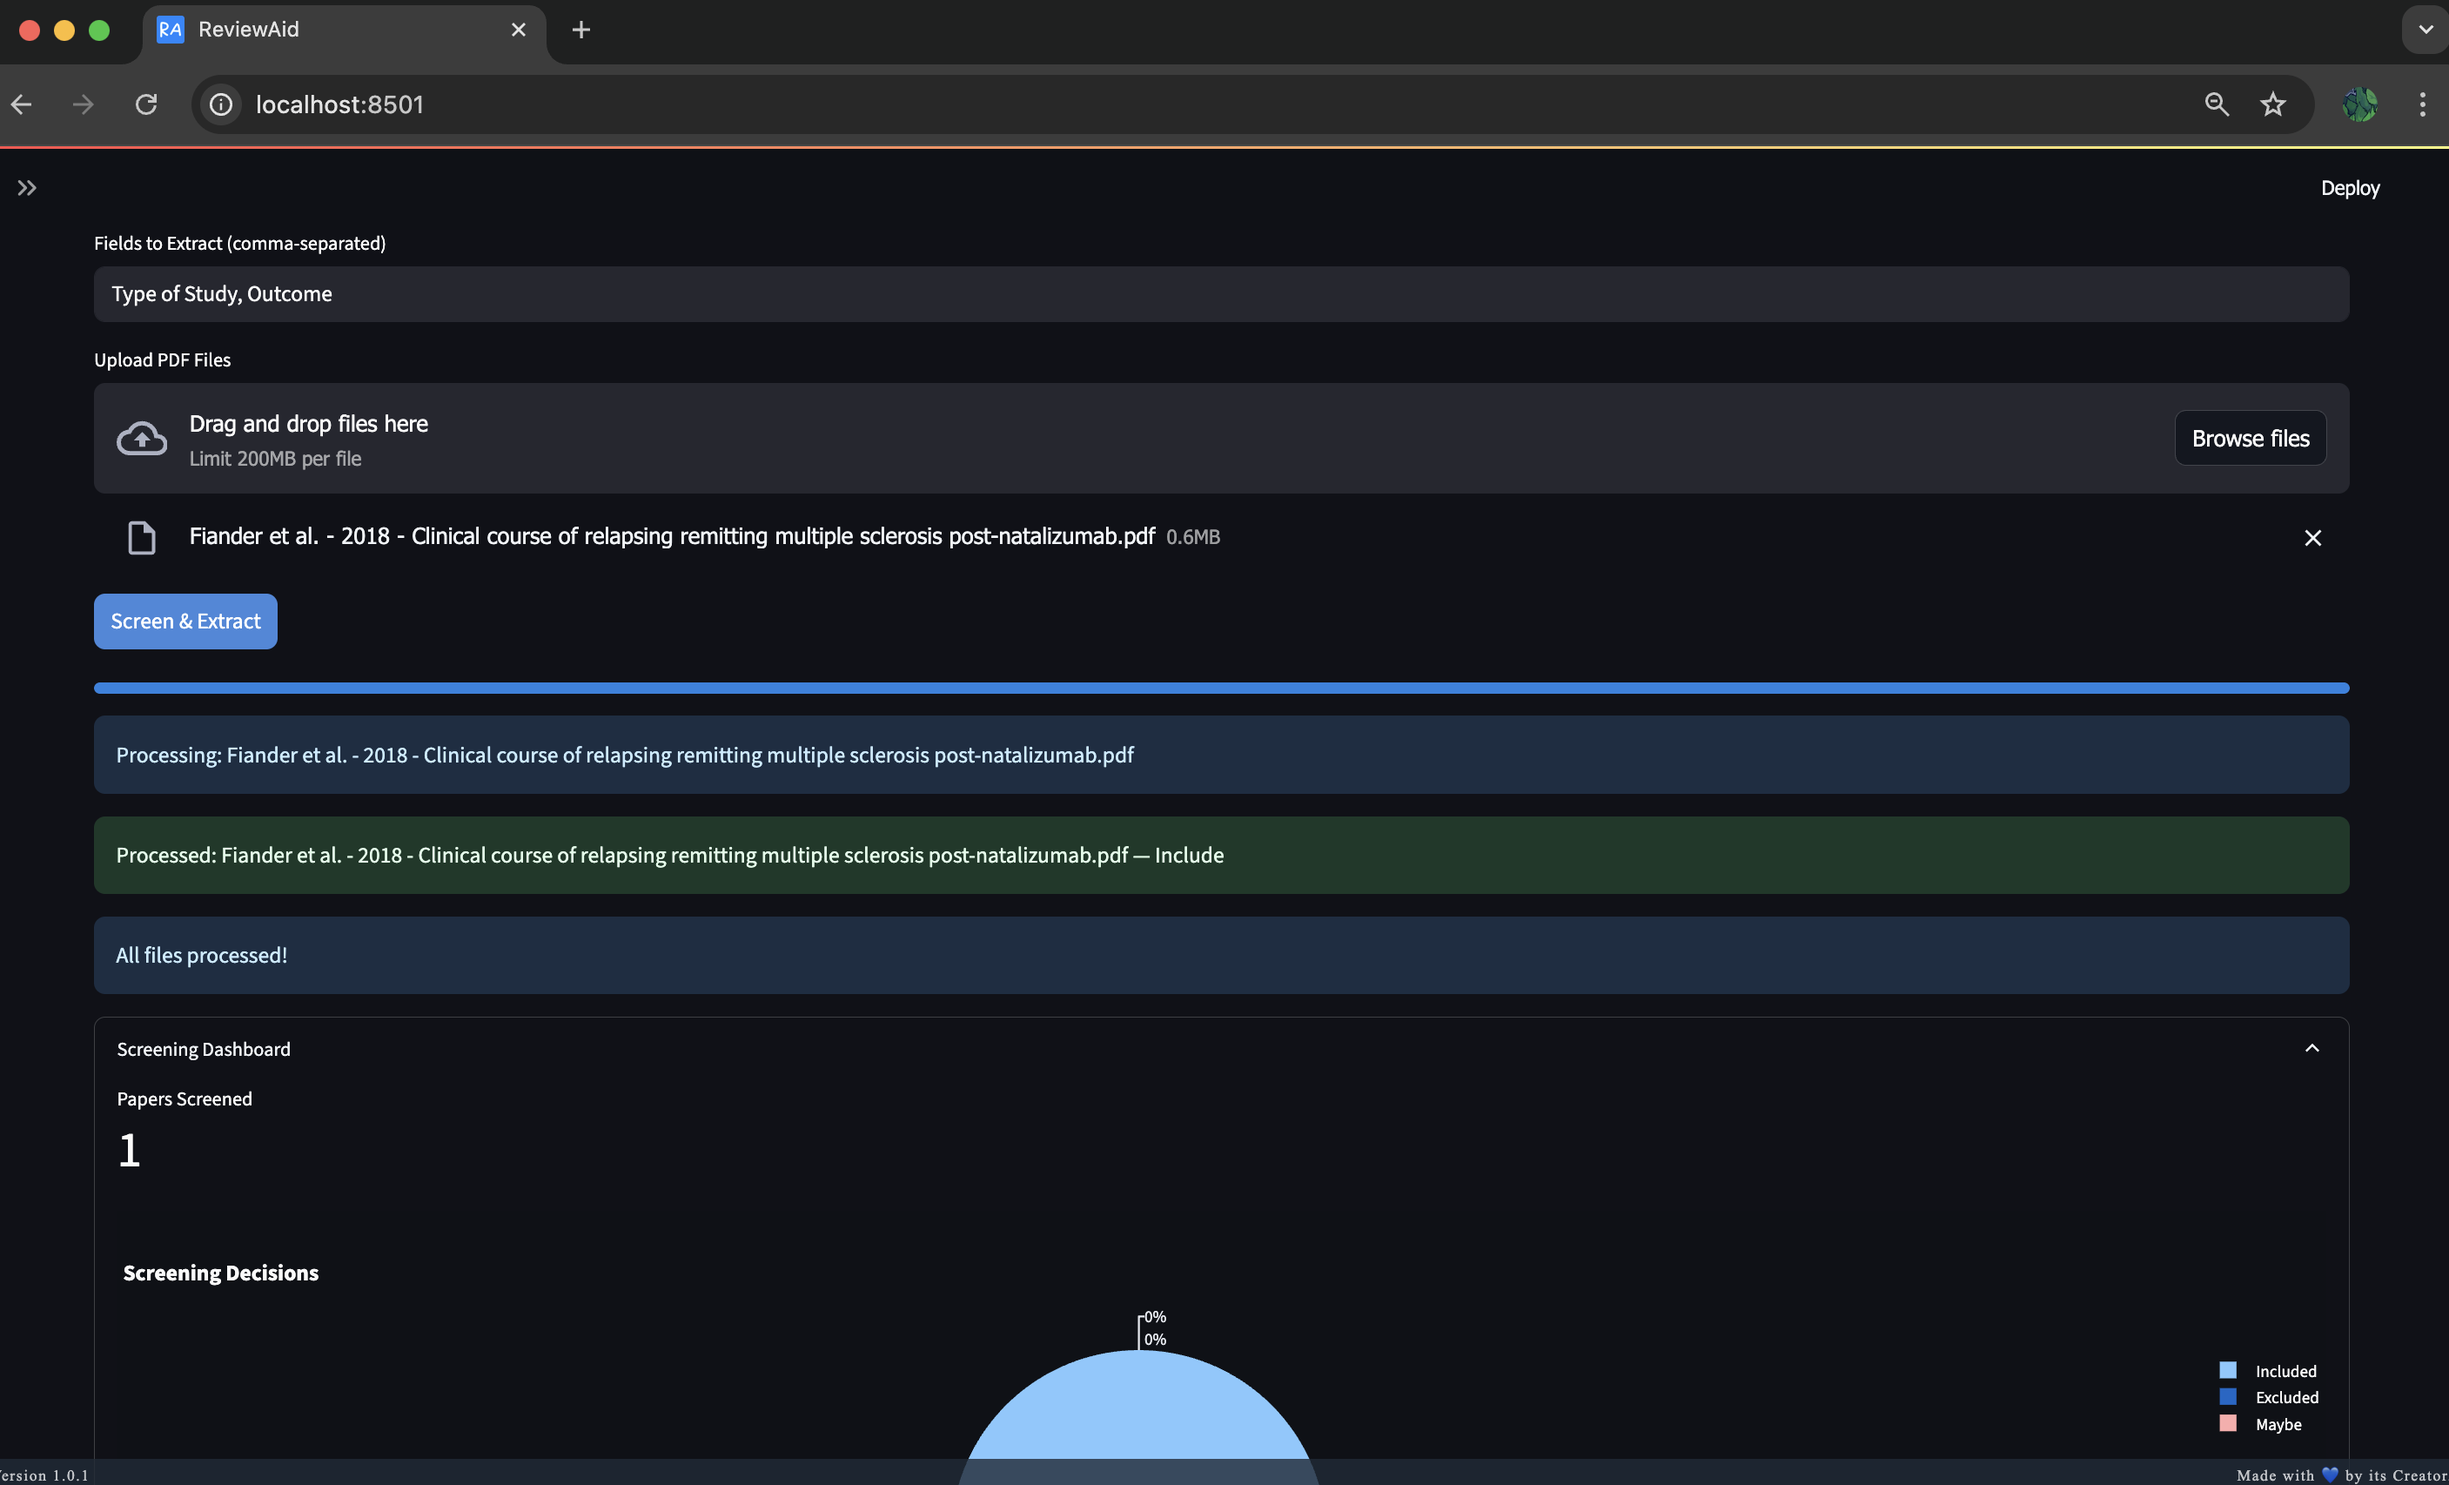
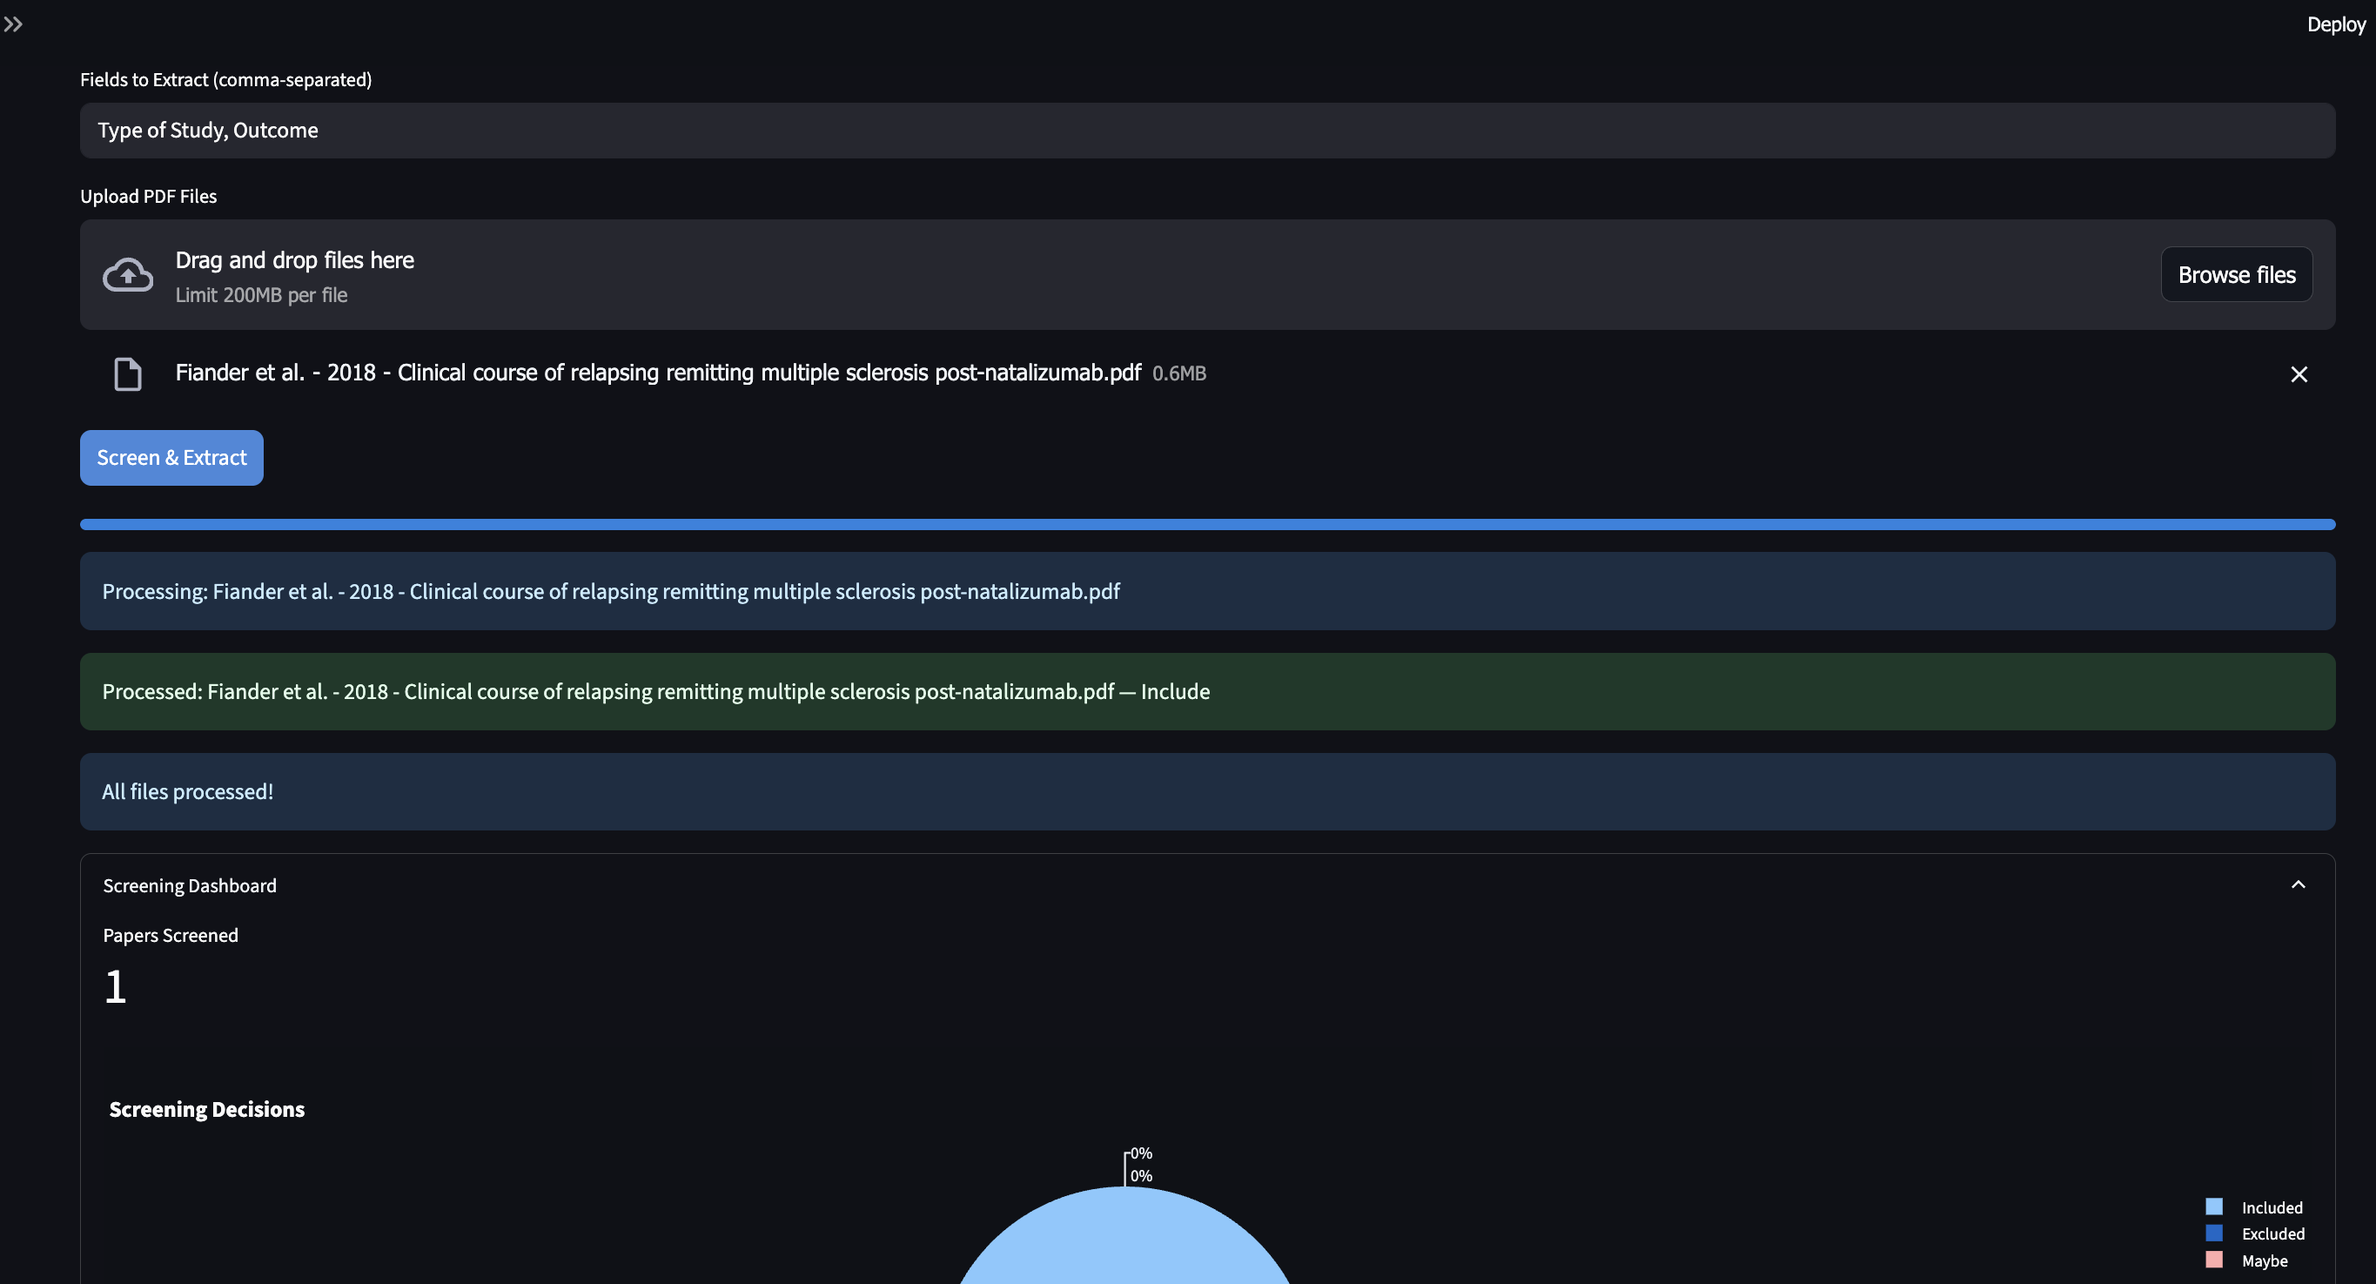
Updated ReadME.md

diff --git a/README.md b/README.md
@@ -23,24 +23,6 @@
 - **Use:**  
    A maximum of 20 papers can be uploaded at a single time.
    
----
-
-## 📸 Screenshots
-
-
-![User Interface](screenshots/screenshot1.png)  
-*User Interface.*
-
-![Upload PDFs](screenshots/screenshot2.png)  
-*Upload pdfs to Screen & Extract.*
-
-
-![Extraction results](screenshots/screenshot3.png)
-*Extracted results, Can download in the available formats.*
-
-![Result](screenshots/screenshot4.png)  
-*Extracted result*
-
 
 ---
 
@@ -59,3 +41,23 @@ Contributions are always welcome!
 
 Upload your PDFs, enter your screening criteria, and start your review! 
 Happy reviewing! :))
+
+
+---
+
+
+
+## 📸 Screenshots
+
+
+![User Interface](screenshots/screenshot1.png)  
+*User Interface.*
+
+![Upload PDFs](screenshots/screenshot2.png)  
+*Upload pdfs to Screen & Extract.*
+
+
+![Result](screenshots/screenshot4.png)  
+*Extracted results (example), Can be downloaded in the available formats.*
+
+
